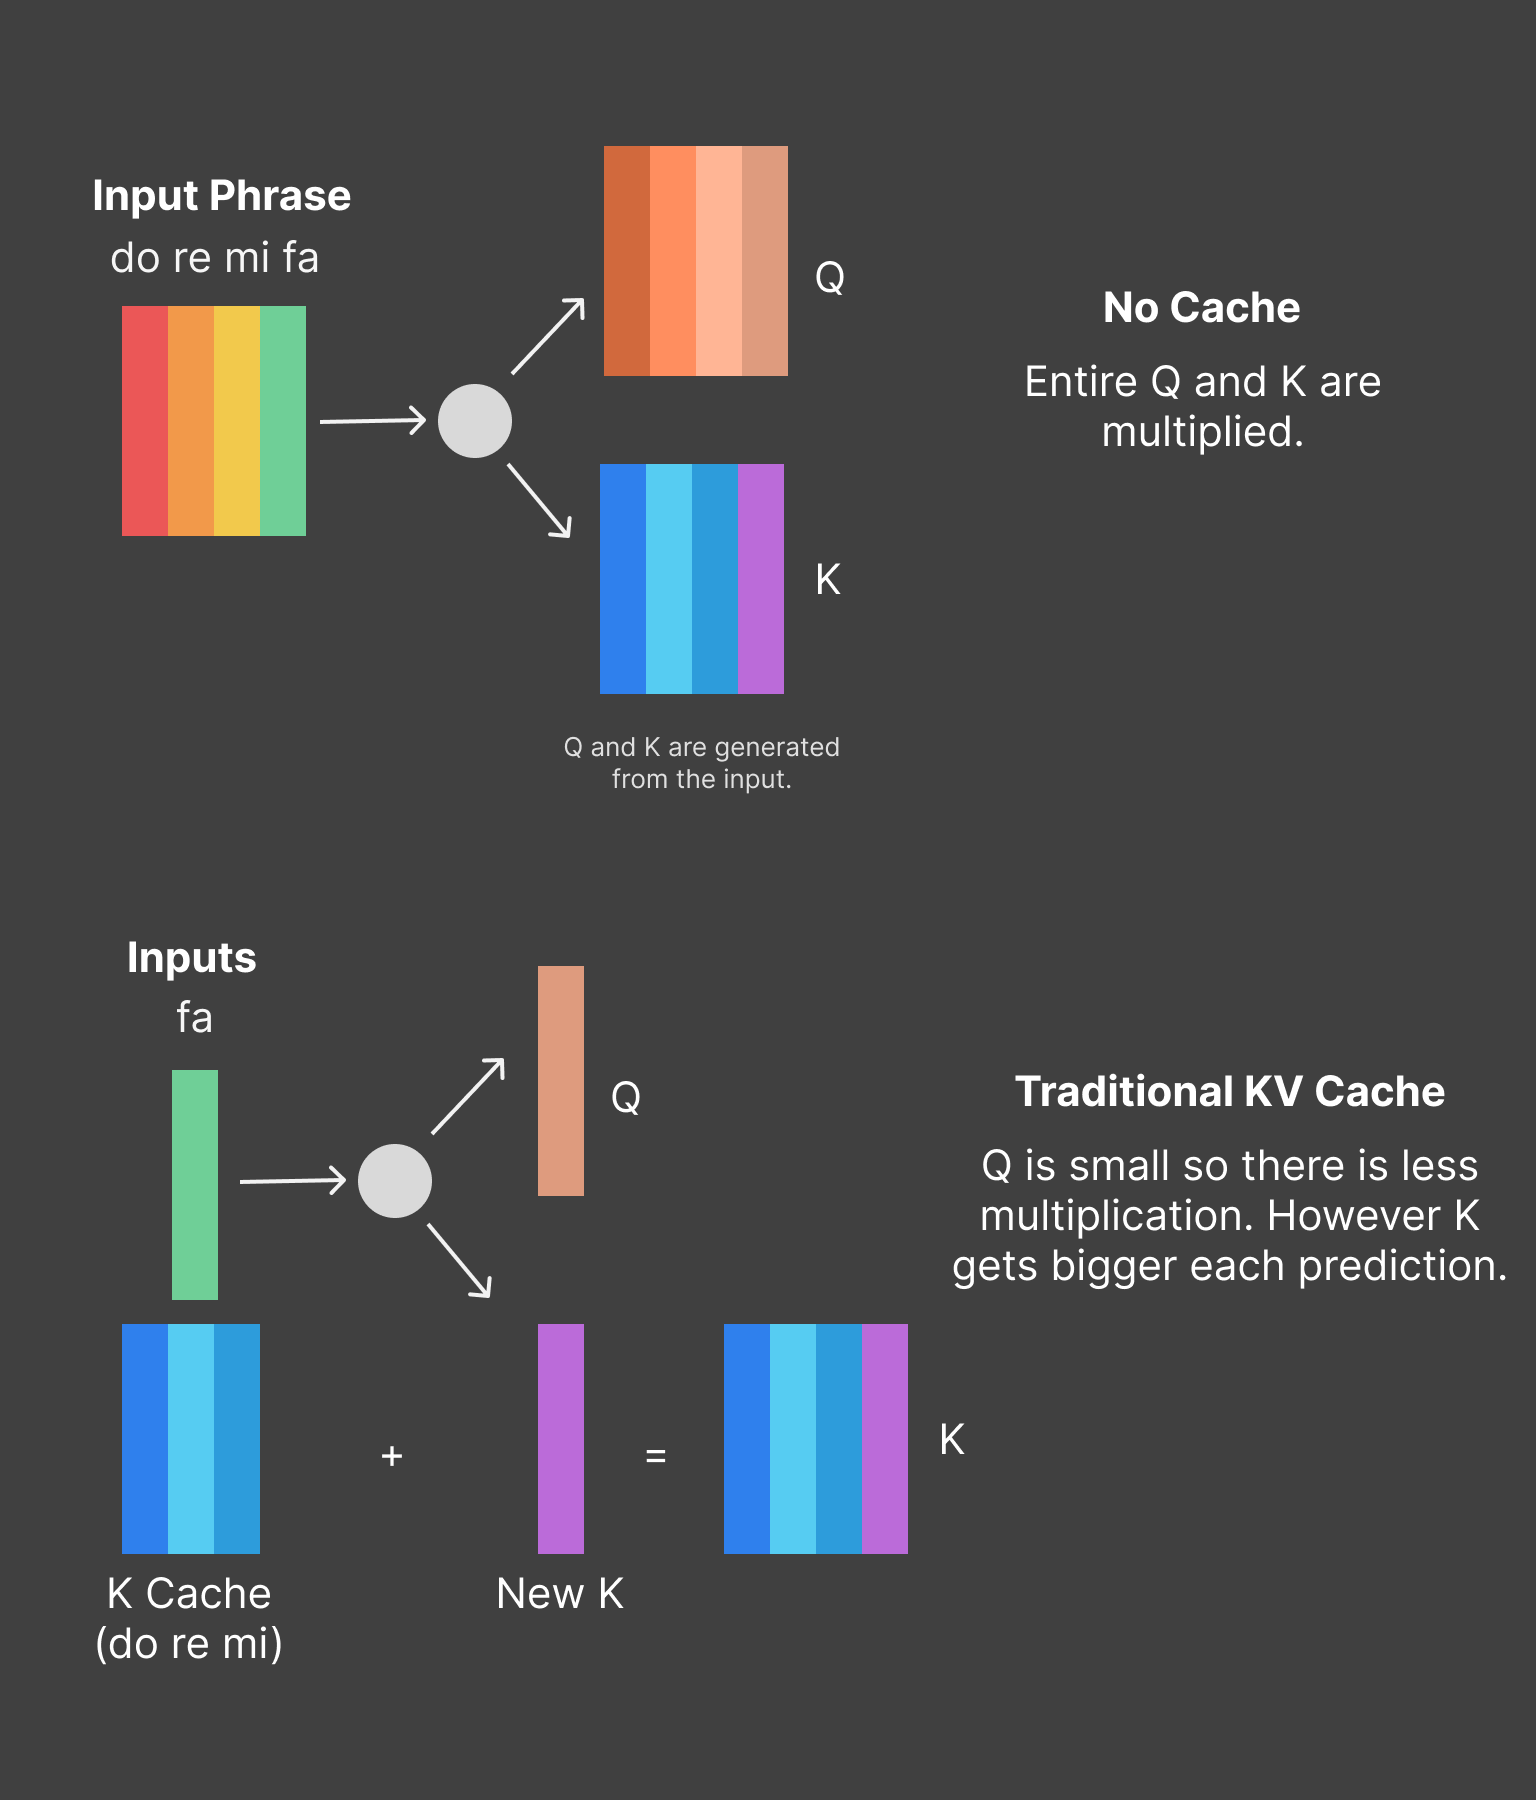
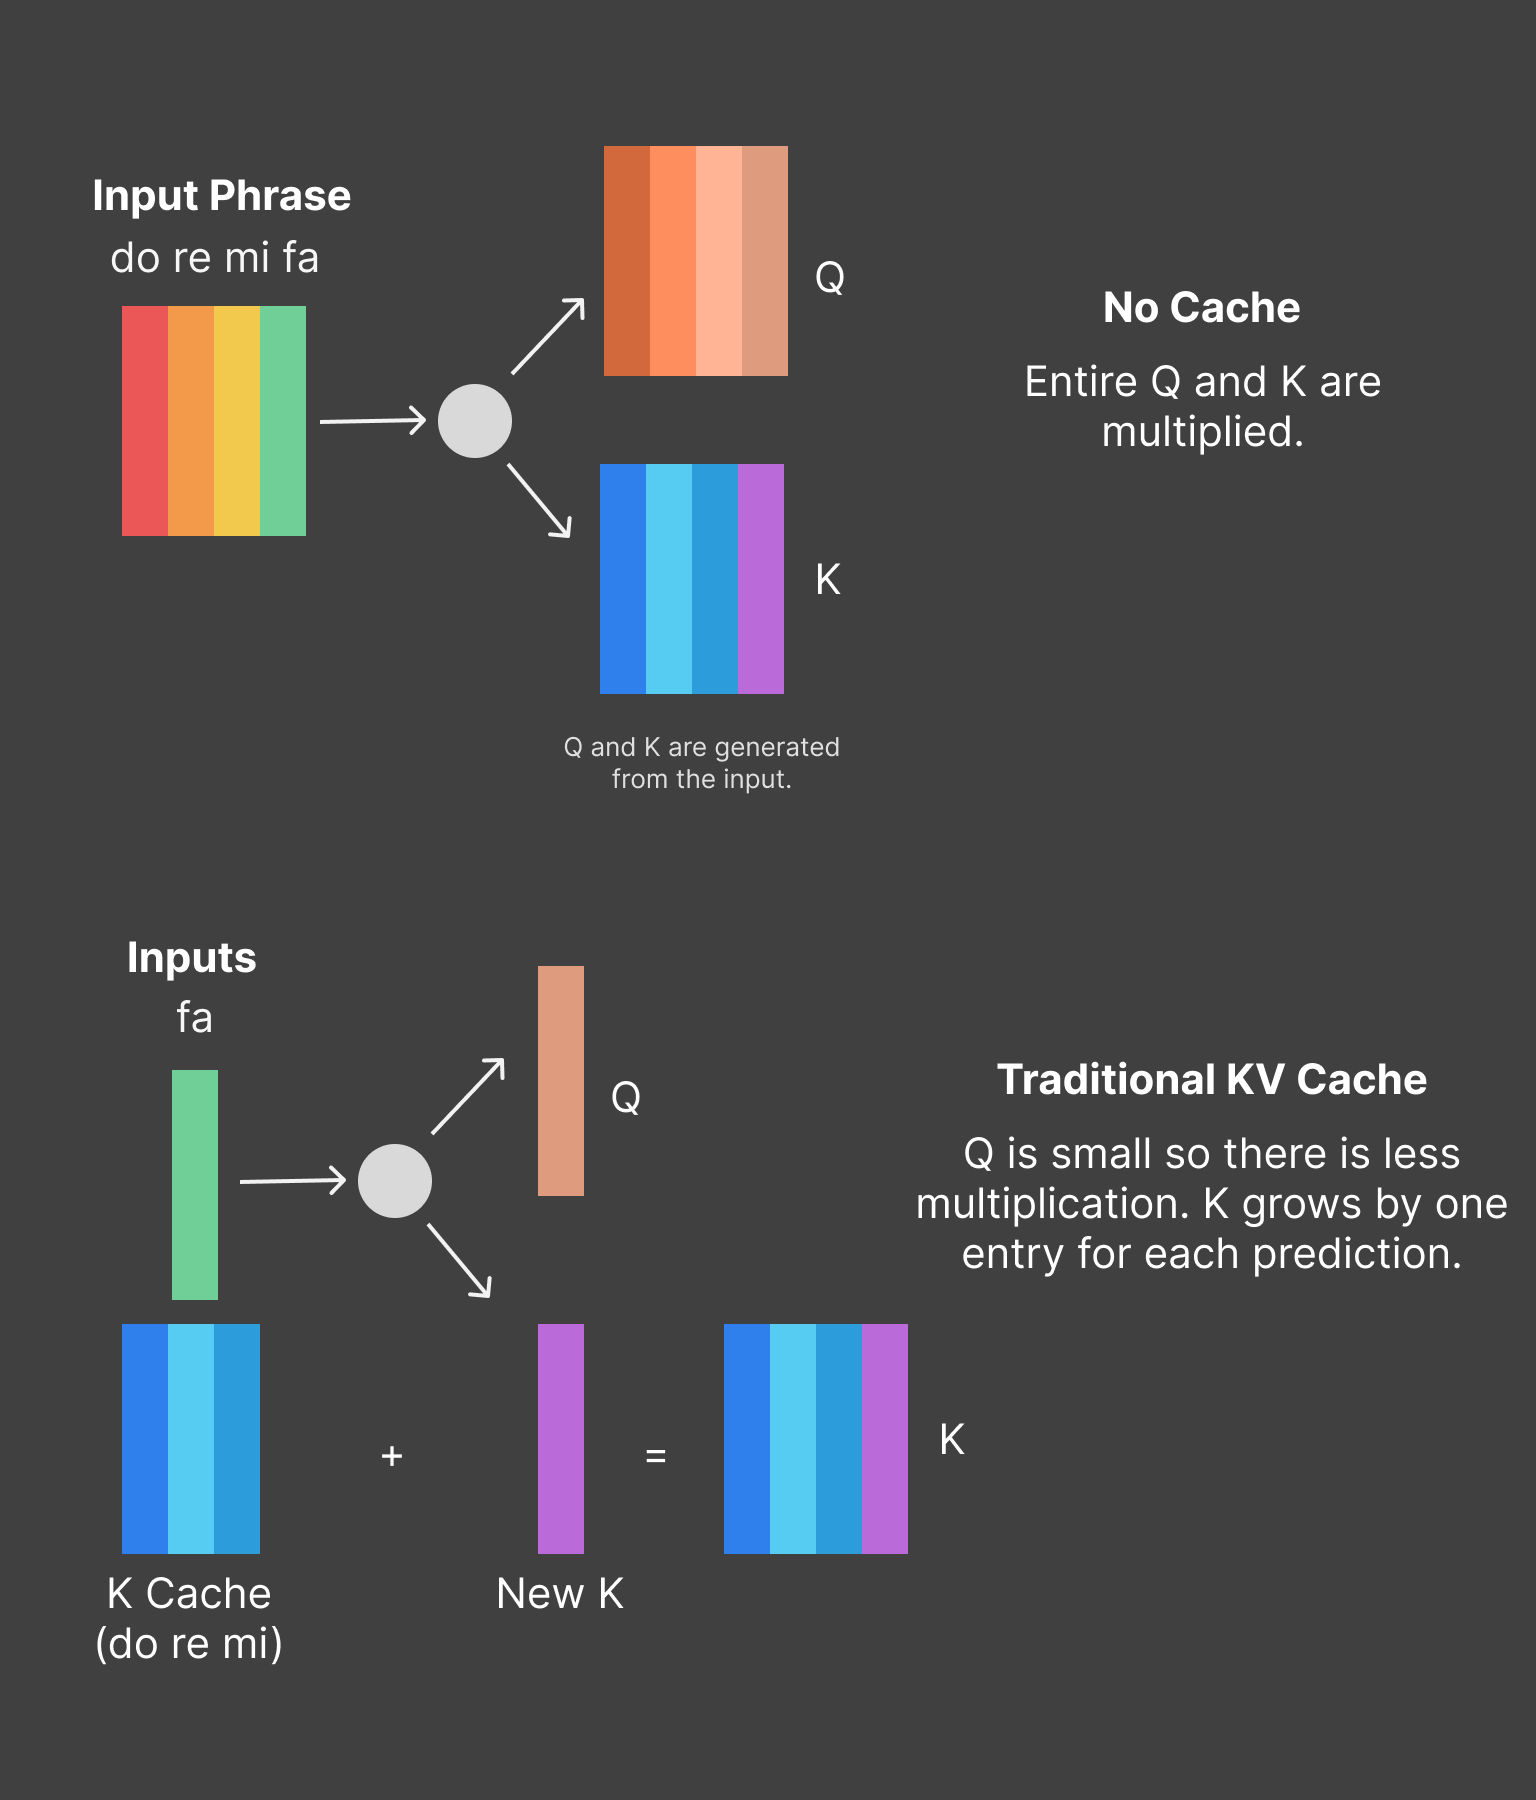
Publish transformer post

Changed region(s): [[0.5938, 0.5911, 0.9688, 0.7156]]

diff --git a/blog/inside-apples-2023-transformers.html b/blog/inside-apples-2023-transformers.html
@@ -90,6 +90,10 @@
         blockquote {
             opacity: 0.7;
         }
+
+        sub {
+            line-height: 18px;
+        }
     </style>
 </head>
 
@@ -104,8 +108,8 @@
     </header>
 
     <article>
-        <h1 id="alookinsideapplesnewtransformermodels">Inside Apple's 2023 Transformer Models</h1>
-        <span class="subhead">What can we learn from them? &bull; November XX, 2023</span>
+        <h1 id="insideapples2023transformermodels">Inside Apple's 2023 Transformer Models</h1>
+        <span class="subhead">What can we learn from them? &bull; November 16, 2023</span>
         <p>Apple's latest OSes include several transformer models that are optimized for the Apple Neural Engine. We'll
             take a look at how they're implemented and see if there's anything we can apply to our own models. To make
             that easier, I've cobbled together support for viewing them in Netron&mdash;you can try it yourself <a
@@ -136,7 +140,7 @@
             <p>This is most interesting if you're familiar with transformers and how they work. However if you are just
                 generally curious I've tried to add explainers throughout to fill in some background.
             <details>
-                <summary>They'll look like this</summary>Feel free to skip them.
+                <summary>They'll look like this.</summary>Feel free to skip them.
             </details>
             </p>
         </blockquote>
@@ -157,9 +161,7 @@
             <sub class="block-center image-caption" style="text-align: center;">The input and first layer of the
                 autocomplete model, annotated.</sub>
         </p>
-        <p>We won't go too deep into the models individually, rather just highlight the interesting bits. However if you
-            want a nice overview of the autocomplete model, <a
-                href="https://jackcook.com/2023/09/08/predictive-text.html">this blog post</a> has a good one.</p>
+        <p>We won't go too deep into the models individually, rather just highlight the interesting bits.</p>
         <h2 id="thevocabsize">The Vocab Size</h2>
         <p><strong>Model:</strong> Keyboard Autocomplete</p>
         <p>The outputs of a transformer are a bunch of probabilities for which token out of the vocab should come next.
@@ -176,9 +178,9 @@
         </p>
         <p>One dimension of this mapping matrix is equal to the number of tokens in the vocabulary. For many models this
             is quite large. gpt-2 (2019) has 50,257 tokens in its vocabulary. LLaMa and Llama2 (2023) have 32,000.</p>
-        <p>Apple's autocomplete model only has 15,000. Not only is this number much smaller, it is just under a
-            threshold of matrix size that the Neural Engine can load. This means that the final computation to determine
-            probabilities can happen on the Neural Engine instead of paying the cost to transfer to CPU.</p>
+        <p>Apple's autocomplete model only has 15,000. Not only is this number smaller, it is also just underneath the
+            Neural Engine's threshold for tensor size. This means that the final computation to determine probabilities
+            can happen on the Neural Engine instead of paying the cost to transfer to CPU.</p>
         <p><img src="/static/blog/inside-apples-2023-transformers/output-logits.png"
                 alt="annotated Netron screenshot showing the autocomplete models outputs and indicating that the last inner_product can run on the ANE">
             <sub class="block-center image-caption" style="text-align: center;">The inner_product here is the language
@@ -204,11 +206,15 @@
         </p>
         <p><img src="/static/blog/inside-apples-2023-transformers/traditional-kv-cache.png"
                 alt="visualization of the Q and K multiplication without a cache and with a traditional single-token-Q cache">
-            <sub class="block-center image-caption" style="text-align: center;">With traditional KV caching, the input
-                is 1 token and the cache has no padding.</sub>
+            <sub class="block-center image-caption" style="text-align: center;">An example of how the Key (K) cache is
+                used. With traditional KV caching, the input is 1 token and the cache is the size of all past
+                tokens.</sub>
         </p>
-        <p>In most implementations, the shape of the KV cache grows by one for each new token. This won't fly on the ANE
-            which requires the model's inputs and outputs have a fixed size.</p>
+        <p>In most implementations, the size of the KV cache increments for each new token. The ANE requires that a
+            model's inputs and outputs are a fixed size<sup>*</sup>, which means a traditional KV cache is off the
+            table.
+            <br /><sub class="image-caption">*not strictly true, but practically</sub>
+        </p>
         <p>You can use KV caching for any transformer model, not just text generation, and it seems that Apple has found
             a way to make it work for their speech-to-text model.</p>
         <p>They have side-stepped the ANE constraints by using a fixed size input for their new tokens and sliding their
@@ -216,7 +222,8 @@
         <p><img src="/static/blog/inside-apples-2023-transformers/apple-kv-cache.png"
                 alt="visualization of two back-to-back inferences using Apple's sliding KV cache">
             <sub class="block-center image-caption" style="text-align: center;">Apple's KV cache slides so that the
-                inputs are always the same size.</sub>
+                inputs are always the same size. In this example there are always 2 input tokens and cache that encodes
+                3 tokens. This gives an effective sequence length of 5.</sub>
         </p>
         <p>This gives a meaningful speed up (2-5x in my experience). However there are two caveats.</p>
         <p>First, you have to use <a
@@ -226,15 +233,15 @@
             will be really slow&mdash;this seems like a regression so I have filed feedback.</p>
         <p><strong>Lesson:</strong> Use KV caching. If you're on Sonoma/iOS17, do your CPU work in a separate model.</p>
         <h3 id="bonusthekeycache">Bonus: The Key Cache</h3>
-        <p>The KV cache is actually a concatenation of caches for two different matrices: a Key (K) and Value (V). Often
+        <p>The KV cache is actually a concatenation of caches for two different tensors: a Key (K) and Value (V). Often
             these are combined into one cache for simplicity, but Apple keeps them separate.</p>
         <p>Why keep them separate? First, you can store the Key cache transposed instead of transposing it before using
             it. Transposing large tensors is extra work that you can avoid (this is in line with Apple's principle of
-            "minimize memory copies"). Secondly, the KV cache is a large tensor and by separating the two, you keep the
-            intermediate tensors smaller.</p>
+            "minimize memory copies"). Secondly, the KV cache is a large tensor and by separating it into two, you keep
+            the intermediate tensors smaller.</p>
         <p><img src="/static/blog/inside-apples-2023-transformers/transposed-key-cache.png"
                 alt="screenshot of netron showing separate K and V caches, and that the K cache is transposed">
-            <sub class="block-center image-caption" style="text-align: center;">Separate caches for K and V and they're
+            <sub class="block-center image-caption" style="text-align: center;">Separate caches for K and V and K is
                 transposed.</sub>
         </p>
         <p>I don't see much impact from this, but it makes sense to me since you are avoiding work.</p>
@@ -256,7 +263,7 @@
             <summary>Why does it matter what PyTorch supports?</summary>
             In order to run models on Apple's devices, they need to be converted to CoreML. The easiest way to convert
             them is by starting from a PyTorch (a Python ML framework) model. So if you want something, PyTorch needs to
-            support it. There are other ways but they are much more complex.
+            support it. <sup>There are other ways but they are more complex.</sup>
         </details>
         </p>
         <p>I was curious to see what Apple used for the layer norm for two reasons. First, on Ventura/iOS 16 I found
@@ -288,7 +295,7 @@
             are still interesting in and of themselves&mdash;if you see a way to use them, please let me know!</p>
         <p><strong>Single Input</strong> The text autocomplete model takes 3 inputs: 128 token IDs, 128 position values
             and 128 segment values. It passes them to the model as one concatenated input and then immediately splits
-            them. I'm not sure the benefit of this, it's possible there isn't one.</p>
+            them. I'm not sure the benefit of this, but it seems slightly odd so maybe there is one?</p>
         <p><img src="/static/blog/inside-apples-2023-transformers/input-embeddings.png"
                 alt="the input embeddings of the autocomplete model in netron" />
             <sub class="block-center image-caption" style="text-align: center;">In the autocomplete model, the 3
@@ -299,21 +306,25 @@
             don't believe this is currently possible using Apple's provided tooling, but it does open up some
             interesting possibilities. To achieve something similar today you have to ship two copies of the same
             weights.</p>
-        <pre><code>$ head -n2 unilm_joint_ane.espresso.net
+        <p><code>
+$ head -n2 unilm_joint_ane.espresso.net
+<br />
 &lcub;
   "storage": "unilm_joint.espresso.weights",
+<br />
 $ head -n2 unilm_joint_cpu.espresso.net
+<br />
 &lcub;
   "storage": "unilm_joint.espresso.weights",
-</code></pre>
+</code></p>
         <p><strong>MultiHead Softmax</strong> Apple's implementation of the transformer in ml-ane-transformers splits a
             large matrix multiplication up into several smaller ones, then performs a softmax on each result (<a
-                href="https://github.com/apple/ml-ane-transformers/blob/da64000fa56cc85b0859bc17cb16a3d753b8304a/ane_transformers/reference/multihead_attention.py#L80-L108">link</a>).
+                href="https://github.com/apple/ml-ane-transformers/blob/da64000fa56cc85b0859bc17cb16a3d753b8304a/ane_transformers/reference/multihead_attention.py#L80-L108">here</a>).
             In contrast, the autocomplete model concatenates the results of the split matrix multiplications, performs
             one softmax, then re-splits that. I didn't see any performance difference from doing this, but I was only
             looking at speed.</p>
-        <p><strong>Extra Outputs</strong> The CPU version of the model outputs the next token logits, but also the
-            pre-logit embeddings. This isn't super novel, but worth mentioning since the cost of getting
+        <p><strong>Extra Outputs</strong> The CPU version of the autocomplete model outputs the next token logits, but
+            also the pre-logit embeddings. This isn't super novel, but worth mentioning since the cost of getting
             already-existing data out of the model seems to be fairly low if you use IOSurface-backed buffers as
             mentioned above. This might be counterintuitive since some of these outputs can be rather large.</p>
         <h2 id="seeforyourself">See for Yourself</h2>
@@ -321,12 +332,10 @@ $ head -n2 unilm_joint_cpu.espresso.net
             four of them are just interesting.</p>
         <p>If you'd like to look for yourself, you can find the models here on macOS Sonoma:</p>
         <ul>
-            <li>Autocomplete:
-                <code
+            <li>Autocomplete: <code
                     class="long-code">/System/Library/LinguisticData/RequiredAssets_en.bundle/AssetData/en.lm/unilm.bundle</code>
             </li>
-            <li>Speech to Text:
-                <code
+            <li>Speech to Text: <code
                     class="long-code">find /System/Library/AssetsV2/com_apple_MobileAsset_Trial_Siri_SiriUnderstandingAsrAssistant -name "AM-Conformer"</code>
             </li>
         </ul>

diff --git a/blog.html b/blog.html
@@ -28,6 +28,11 @@
             color: unset;
         }
 
+        a.post {
+            display: block;
+            margin-top: 8px;
+        }
+
         header h2 {
             margin-bottom: 0;
         }
@@ -35,6 +40,16 @@
         header div {
             display: flex;
             gap: 8px;
+        }
+
+        p {
+            max-width: 400px;
+            margin: 4px 0;
+            opacity: 0.6;
+            font-style: italic;
+            font-size: 12px;
+            font-weight: 200;
+            padding: 0;
         }
     </style>
 </head>
@@ -50,9 +65,14 @@
 
     <article>
         <h2>posts</h2>
-        <a href="/blog/time-series-compression">
+        <a class="post" href="/blog/inside-apples-2023-transformers">
+            Inside Apple's 2023 Transformer Models
+        </a>
+        <p>What can we learn from them?</p>
+        <a class="post" href="/blog/time-series-compression">
             No Frills Time Series Compression That Also Works
         </a>
+        <p>So you have some time series data and you want to make it smaller?</p>
     </article>
 
 
